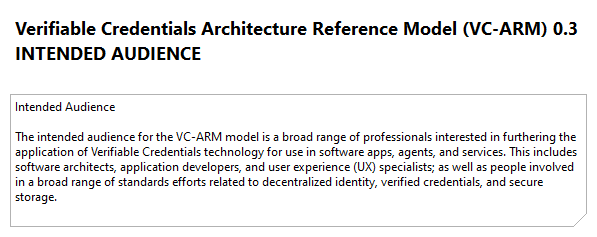
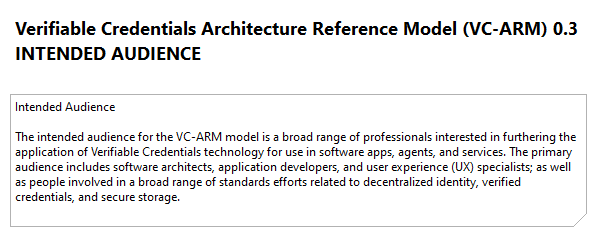
Updated AUDIENCE wording

Changed region(s): [[0.0, 0.6203, 0.9648, 0.8565]]

diff --git a/docs/id-5f1b868ce86d44c0824994fb5651137e/objects/id-0cd53ed673f345809104e8d6b9621c20.html b/docs/id-5f1b868ce86d44c0824994fb5651137e/objects/id-0cd53ed673f345809104e8d6b9621c20.html
@@ -47,7 +47,7 @@
 					<div role="tabpanel" class="tab-pane active" id="documentation">
 						<div class="convertlinks documentation" style="white-space:pre-wrap">Intended Audience
 
-The intended audience for the VC-ARM model is a broad range of professionals interested in furthering the application of Verifiable Credentials technology for use in software apps, agents, and services. This includes software architects, application developers, and user experience (UX) specialists; as well as people involved in a broad range of standards efforts related to decentralized identity, verified credentials, and secure storage.
+The intended audience for the VC-ARM model is a broad range of professionals interested in furthering the application of Verifiable Credentials technology for use in software apps, agents, and services. The primary audience includes software architects, application developers, and user experience (UX) specialists; as well as people involved in a broad range of standards efforts related to decentralized identity, verified credentials, and secure storage.
 </div>
 					</div>
 					<div role="tabpanel" class="tab-pane" id="properties">
